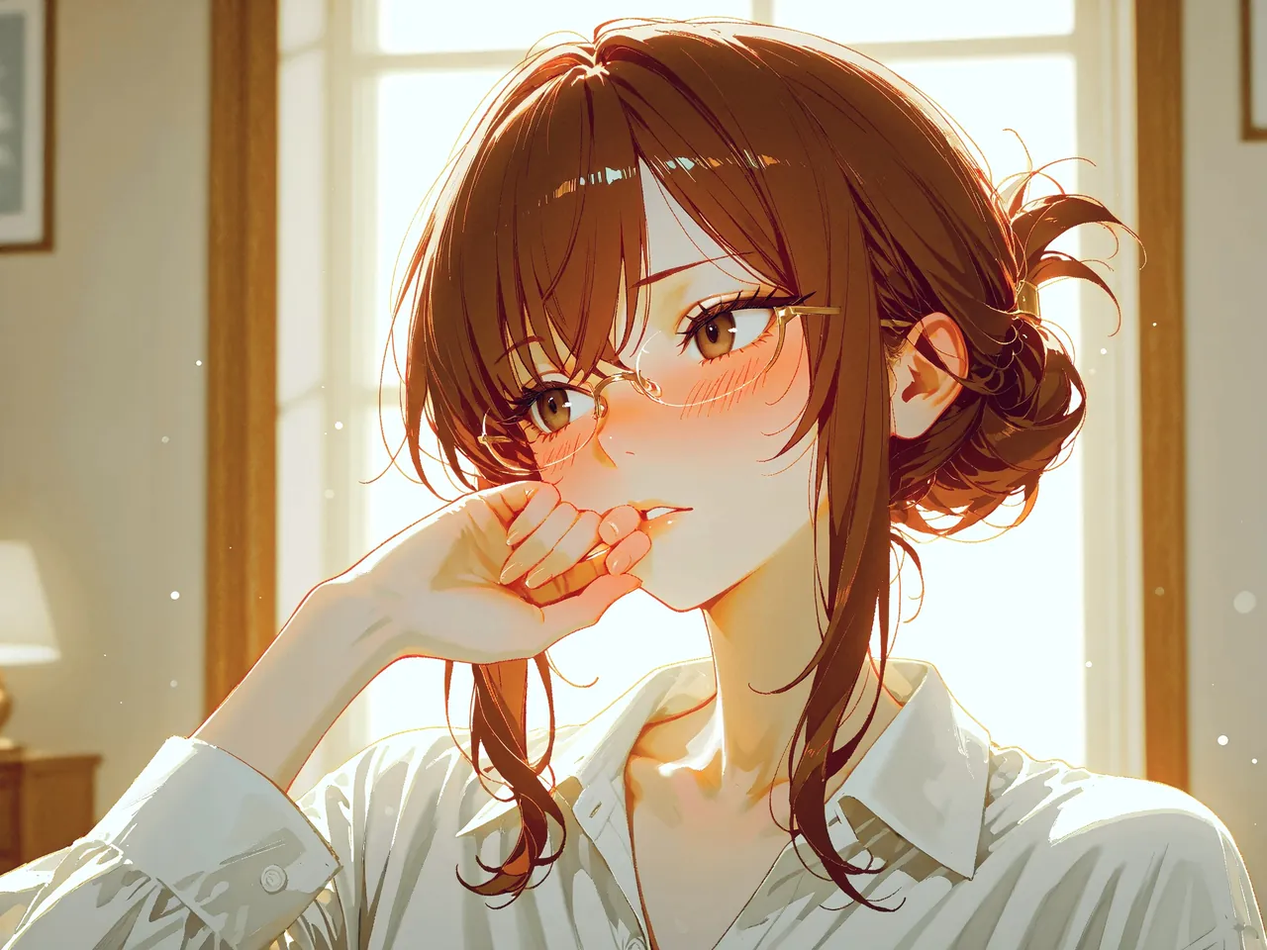
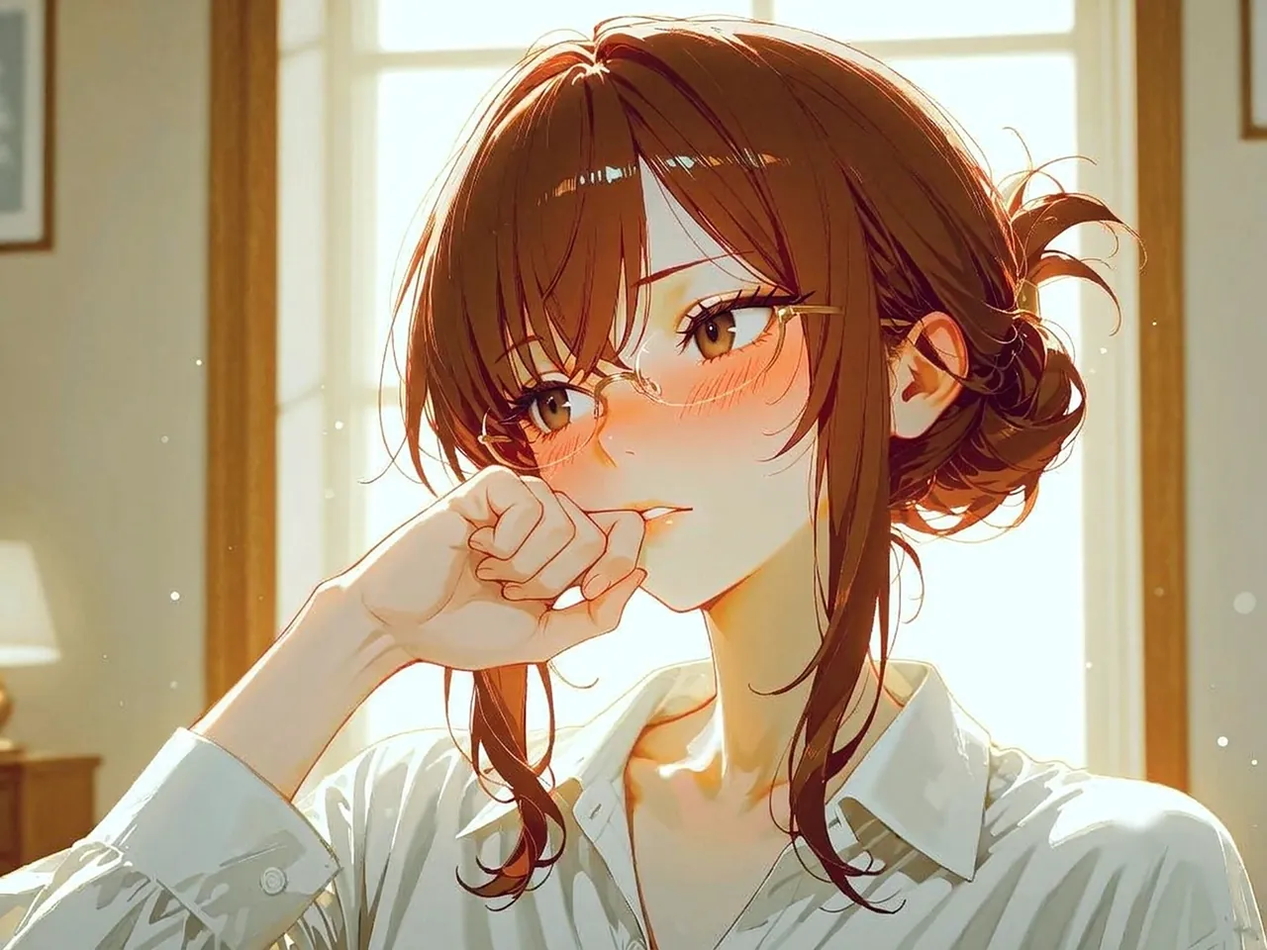
Add files via upload

diff --git a/auction/js/house.js b/auction/js/house.js
@@ -1,6 +1,8 @@
 /* 주인하 — 이 집 (auction 전용 · shared 파일을 고치지 않음)
    표지 로고 · 지금 상태 줄 · 세계관 · 평면도(방을 누르면 장면) · 영수증 수첩(소지품+TMI) · 이사비 협상 다이얼 · 철벽 게이지 · 보일러(밤)
-   data.js page.house 에 값을 적으면 켜져요.  미리보기: ?hour=23 (밤) · ?visit=5 · ?wall=40 */
+   + 보일러 켜 주기 · 하루 한 장 영수증 · 이자 날 D-n · 2등의 차 · 다음 물건 임장 노트
+   data.js page.house 에 값을 적으면 켜져요.
+   미리보기: ?hour=23 (밤) · ?visit=5 · ?wall=40 · ?days=7 (영수증 장수) · ?iday=0 (이자 날까지 남은 날) · ?car=1 (2등의 차) */
 (() => {
 const D = window.ARCHIVE || {}, P = D.page || {}, H = P.house, API = window.ARCHIVE_API;
 if (!H || !API) return;
@@ -22,12 +24,21 @@ st.deals = st.deals || 0; st.stay = st.stay || 0;
 const hNow = q.get('hour') != null && q.get('hour') !== '' ? +q.get('hour') : new Date().getHours();
 const night = hNow >= 22 || hNow < 5;
 
+/* ── 하루 기준: 새벽 5시에 날이 바뀐다 (밤 22~5시는 같은 밤) ── */
+const dkey = () => { const d = new Date(Date.now() - 5 * 3600e3); return `${d.getFullYear()}-${String(d.getMonth() + 1).padStart(2, '0')}-${String(d.getDate()).padStart(2, '0')}`; };
+const today = dkey();
+st.days = Array.isArray(st.days) ? st.days : [];
+const firstToday = !st.days.includes(today);
+if (firstToday) { st.days.push(today); if (st.days.length > 60) st.days = st.days.slice(-60); save(); }
+const B = H.boiler || {};
+st.boilerN = st.boilerN || 0;
+
 /* ── 철벽 ── */
 const W = H.wall || {};
 const visit = +q.get('visit') || +ls.get('pa_visit_' + location.pathname) || 1;
 function wallNow() {
   if (q.get('wall') != null && q.get('wall') !== '') return Math.max(0, Math.min(100, +q.get('wall')));
-  const v = (W.start || 100) - (W.perVisit || 6) * (visit - 1) - Math.min(30, (W.perDeal || 2) * st.deals) - Math.min(40, (W.perStay || 2) * Math.floor(st.stay / (W.staySec || 180)));
+  const v = (W.start || 100) - (W.perVisit || 6) * (visit - 1) - Math.min(30, (W.perDeal || 2) * st.deals) - Math.min(40, (W.perStay || 2) * Math.floor(st.stay / (W.staySec || 180))) - Math.min(B.max || 20, (B.perOn || 4) * st.boilerN);
   return Math.max(0, Math.min(100, Math.round(v)));
 }
 let wall = wallNow();
@@ -49,11 +60,23 @@ if (heroText) {
 /* ── 2. 지금 상태 줄 ── */
 const L = H.statusLabels || {};
 const pad = n => String(n).padStart(2, '0');
+const I = H.interest || {}, Cc = H.car || null;
+const dLeft = (() => {
+  if (q.get('iday') != null && q.get('iday') !== '') return Math.max(0, +q.get('iday'));
+  if (!I.day) return null;
+  const n = new Date(Date.now() - 5 * 3600e3), t0 = new Date(n.getFullYear(), n.getMonth(), n.getDate());
+  let t = new Date(n.getFullYear(), n.getMonth(), Math.min(I.day, new Date(n.getFullYear(), n.getMonth() + 1, 0).getDate()));
+  if (t < t0) t = new Date(n.getFullYear(), n.getMonth() + 1, Math.min(I.day, new Date(n.getFullYear(), n.getMonth() + 2, 0).getDate()));
+  return Math.round((t - t0) / 864e5);
+})();
+const carOn = !!Cc && (q.get('car') === '1' || (q.get('car') !== '0' && Math.random() < (Cc.chance || .2)));
 const status = document.createElement('section'); status.setAttribute('data-page', '1'); status.className = 'hz-status';
 status.innerHTML = `<div class="in">
   <div class="cell"><span class="k">${esc(L.wall || '철벽')}</span><b class="v" id="hz-wall">${wall}%</b><div class="bar"><i id="hz-wall-bar" style="transform:scaleX(${wall / 100})"></i></div></div>
   <div class="cell"><span class="k">${esc(L.fee || '이사비')}</span><b class="v" id="hz-fee">₩${(st.last != null ? st.last : (H.dealStart || 200))}만</b></div>
-  <div class="cell"><span class="k" id="hz-clock">${pad(hNow)}:${pad(new Date().getMinutes())}</span><b class="v${night ? ' off' : ''}">${esc(night ? (H.boilerOff || '보일러 OFF') : (H.boilerOn || '보일러 ON'))}</b></div>
+  <div class="cell"><span class="k" id="hz-clock">${pad(hNow)}:${pad(new Date().getMinutes())}</span><b class="v${night && st.boilerLast !== today ? ' off' : ''}" id="hz-boil-v">${esc(night ? (st.boilerLast === today ? (B.on || '보일러 ON') : (H.boilerOff || '보일러 OFF')) : (H.boilerOn || '보일러 ON'))}</b>${night && B.btn && st.boilerLast !== today ? `<button type="button" class="hz-boil" id="hz-boil">${esc(B.btn)}</button>` : ''}${night && st.boilerLast === today && B.onNote ? `<span class="hz-boil-note">${esc(B.onNote)}</span>` : ''}</div>
+  ${I.day ? `<div class="cell"><span class="k">${esc(I.label || '이자일')}</span><b class="v${dLeft === 0 ? ' off' : ''}">${dLeft === 0 ? 'D-DAY' : 'D-' + dLeft}</b></div>` : ''}
+  ${carOn ? `<div class="hz-alert"><span class="dot" aria-hidden="true"></span><span class="tx">${esc(Cc.alert || '')}</span><button type="button" id="hz-car">${esc(Cc.btn || '보기')}</button></div>` : ''}
 </div>`;
 const heroSec = $('hero'); if (heroSec) heroSec.after(status);
 
@@ -141,18 +164,28 @@ planSec.querySelector('svg').addEventListener('keydown', e => { const g = e.targ
 showRoom('living');
 
 /* ── 5. 영수증 수첩 (소지품 + TMI) ── */
-const items = C.items || [], tmi = C.tmi || [];
+const items = C.items || [], tmi = C.receiptQA || C.tmi || [];
 const rcSec = document.createElement('section'); rcSec.setAttribute('data-page', '1'); rcSec.className = 'sec fade-up';
 let n = 0; const no = () => `No.${String(++n).padStart(4, '0')}`;
-rcSec.innerHTML = `<div class="sec-head"><div class="hz-rule"><p class="label">${esc(H.rcLabel || 'Receipts')}</p></div><h2 class="sec-title">${two(H.rcTitle || [])}</h2><p class="sec-sub">${esc(H.rcSub || '')}</p></div>
+const DL = H.daily || [];
+const dayCount = Math.min(DL.length, q.get('days') ? +q.get('days') : st.days.length);
+const won = s => +String(s).replace(/[^0-9]/g, '') || 0;
+const dailyHTML = DL.slice(0, dayCount).map((r, i) => ({ r, i })).reverse().map(({ r, i }, k) => `<article class="rcpt daily${k === 0 && (firstToday || q.get('days')) ? ' new' : ''}${k >= 4 ? ' old' : ''}"><span class="tape" aria-hidden="true"></span>${k === 0 && (firstToday || q.get('days')) ? '<span class="nw">TODAY</span>' : ''}<div class="h">${esc(r.shop || '')}</div><div>DAY ${String(i + 1).padStart(2, '0')}</div>
+  ${(r.rows || []).map(([a, b]) => `<div class="r"><span>${esc(a)}</span><span>${esc(b)}</span></div>`).join('')}
+  <div class="t r"><span>합계</span><span>${(r.rows || []).reduce((t, [, b]) => t + won(b), 0).toLocaleString()}</span></div>
+  ${r.memo ? `<p class="memo">${esc(r.memo)}</p>` : ''}<p class="no">D-${String(i + 1).padStart(3, '0')}</p></article>`).join('');
+rcSec.innerHTML = `<div class="sec-head"><div class="hz-rule"><p class="label">${esc(H.rcLabel || 'Receipts')}</p></div><h2 class="sec-title">${two(H.rcTitle || [])}</h2><p class="sec-sub">${esc(H.rcSub || '')}</p>${DL.length ? `<p class="hz-count"><b>${esc(H.dailyLabel || '오늘 붙은 영수증')}</b> ${dayCount} / ${DL.length}</p>` : ''}</div>
 <div class="hz-rc" tabindex="0" aria-label="영수증 수첩">
+${dailyHTML}
 ${items.map(it => `<article class="rcpt"><span class="tape" aria-hidden="true"></span><div class="h">${esc(it.shop || '')}</div><p class="it">${esc(it.title || '')}</p><div>${esc(it.date || '')}</div>
   ${(it.rows || []).map(([a, b]) => `<div class="r"><span>${esc(a)}</span><span>${esc(b)}</span></div>`).join('')}
   ${it.total ? `<div class="t r"><span>합계</span><span>${esc(it.total)}</span></div>` : ''}
   ${it.desc ? `<p class="a" style="font-size:13.5px;margin-top:10px">${esc(it.desc)}</p>` : ''}
   ${it.memo ? `<p class="memo">${esc(it.memo)}</p>` : ''}<p class="no">${no()}</p></article>`).join('')}
 ${tmi.map((t, i) => `<article class="rcpt"><span class="tape" aria-hidden="true"></span><div class="h">Q&amp;A · ${String(i + 1).padStart(3, '0')}</div><p class="q">Q. ${esc(t.q)}</p><p class="a">${esc(t.a)}</p><p class="no">${no()}</p></article>`).join('')}
-</div>`;
+</div>
+${dayCount > 4 ? `<button type="button" class="btn hz-more" id="hz-more">지난 영수증 ${dayCount - 4}장 더 보기</button>` : ''}`;
+rcSec.addEventListener('click', e => { if (e.target.id === 'hz-more') { rcSec.querySelectorAll('.rcpt.old').forEach(x => x.classList.remove('old')); e.target.remove(); } });
 
 /* ── 6. 이사비 협상 ── */
 const MIN = H.dealMin || 0, MAX = H.dealMax || 1000;
@@ -175,7 +208,16 @@ dealSec.innerHTML = `<div class="sec-head"><div class="hz-rule"><p class="label"
     <div class="acts"><button type="button" class="btn solid" id="hz-offer">${esc(H.dealBtn || '부르기')}</button><button type="button" class="btn" id="hz-save" style="flex:0 0 38%">${esc(H.dealSave || '영수증 저장')}</button></div>
   </div>
 </div>`;
-if (castSec) { castSec.after(rcSec); rcSec.after(dealSec); } else { document.querySelector('main').append(rcSec, dealSec); }
+/* ── ⑤ 다음 물건 임장 노트 ── */
+const NX = H.next || [];
+const nextSec = document.createElement('section'); nextSec.setAttribute('data-page', '1'); nextSec.className = 'sec fade-up';
+if (NX.length) nextSec.innerHTML = `<div class="sec-head"><div class="hz-rule"><p class="label">${esc(H.nextLabel || 'Next Lot')}</p></div><h2 class="sec-title">${two(H.nextTitle || [])}</h2><p class="sec-sub">${esc(H.nextSub || '')}</p></div>
+<div class="hz-next">${NX.map(x => `<article class="lot"><div class="top"><span>${esc(x.no || '')}</span><span class="st">임장 예정</span></div><p class="kind">${esc(x.kind || '')}</p>
+  ${(x.price || []).map(([a, b]) => `<div class="r"><span>${esc(a)}</span><span>${esc(b)}</span></div>`).join('')}<p class="pen">${esc(x.pen || '')}</p></article>`).join('')}</div>
+<p class="hz-next-end" id="hz-next-end"></p>`;
+const nextEnd = () => { const el = $('hz-next-end'); if (!el) return; const rows = (H.nextEnd || []).slice().sort((a, b) => b.below - a.below); let t = ''; rows.forEach(r => { if (wall < r.below) t = r.line; }); el.textContent = t; };
+if (castSec) { castSec.after(rcSec); rcSec.after(dealSec); dealSec.after(nextSec); } else { document.querySelector('main').append(rcSec, dealSec, nextSec); }
+nextEnd();
 
 function setVal(v) {
   val = Math.max(MIN, Math.min(MAX, Math.round(v)));
@@ -236,7 +278,7 @@ function secretBlock() {
 }
 function updateWall() {
   const was = wall; wall = wallNow();
-  $('hz-wall').textContent = wall + '%'; $('hz-wall-bar').style.transform = `scaleX(${wall / 100})`;
+  $('hz-wall').textContent = wall + '%'; $('hz-wall-bar').style.transform = `scaleX(${wall / 100})`; nextEnd();
   if (was >= (W.nameAt || 50) && wall < (W.nameAt || 50)) {
     // 50% 아래로: 그녀의 방이 열리고, 이름을 부름 (한 번만)
     const g = planSec.querySelector('[data-room="her"]'); if (g) { g.classList.remove('lock'); const lk = [...g.querySelectorAll('text')].find(t => t.textContent === 'LOCKED'); if (lk) lk.remove(); g.setAttribute('aria-label', (byId.her || {}).name || ''); }
@@ -251,8 +293,33 @@ let lastT = Date.now();
 setInterval(() => { const now = Date.now(); if (!document.hidden && document.documentElement.dataset.in === '1') { st.stay += Math.min(5, (now - lastT) / 1000); if (Math.floor(st.stay) % 10 === 0) { save(); updateWall(); } } lastT = now; }, 1000);
 addEventListener('pagehide', save);
 
-/* ── 8. 기록 팝업: 소지품·TMI 는 영수증 수첩으로 옮겼으니 팝업에서는 숨김 ── */
-['modal-tmi', 'modal-inv'].forEach(id => { const el = $(id), sec = el && el.closest('.m-sec'); if (sec) sec.style.display = 'none'; });
+/* ── 창(오버레이): 2등의 차 ── */
+function overlay(o) {
+  const ov = document.createElement('div'); ov.className = 'hz-ov'; ov.setAttribute('role', 'dialog'); ov.setAttribute('aria-modal', 'true');
+  ov.innerHTML = `<div class="card"><img src="${esc(o.img)}" alt="${esc(C.name || '')}"><p class="tag">${esc(o.tag || '')}</p><p class="ln">${esc(o.line || '')}</p><button type="button" class="btn">${esc(o.close || '닫기')}</button></div>`;
+  document.body.appendChild(ov); requestAnimationFrame(() => ov.classList.add('on'));
+  const close = () => { ov.classList.remove('on'); setTimeout(() => ov.remove(), RM ? 0 : 500); document.removeEventListener('keydown', k); };
+  const k = e => { if (e.key === 'Escape') close(); };
+  ov.addEventListener('click', e => { if (e.target === ov || e.target.closest('button')) close(); }); document.addEventListener('keydown', k);
+  ov.querySelector('button').focus();
+}
+if (carOn && $('hz-car')) $('hz-car').addEventListener('click', () => overlay(Cc));
+
+/* ── ① 보일러 켜 주기 (밤) ── */
+if ($('hz-boil')) $('hz-boil').addEventListener('click', () => {
+  st.boilerLast = today; st.boilerN++; save();
+  const v = $('hz-boil-v'); v.textContent = B.on || '보일러 ON'; v.classList.remove('off');
+  const nt = document.createElement('span'); nt.className = 'hz-boil-note'; nt.textContent = B.onNote || ''; $('hz-boil').replaceWith(nt); updateWall(); say(B.done);
+});
+
+/* ── ③ 이자 날 장면 ── */
+if (I.day && dLeft === 0 && I.img) {
+  const box = document.createElement('div'); box.className = 'hz-secret hz-iday fade-up in';
+  box.innerHTML = `<img src="${esc(I.img)}" alt="${esc(C.name || '')}" loading="lazy"><div><p class="tag">${esc(I.tag || '')}</p><p style="margin-top:10px">${esc(I.line || '')}</p></div>`;
+  $('hz-secret-slot').prepend(box);
+}
+
+/* ── 8. 기록 팝업: 소지품(영수증 번호표)·TMI 는 팝업에도 그대로 둔다 ── */
 const fv = $('modal-video-fallback'); if (fv) fv.textContent = '';
 
 /* ── 시계 · 들어온 순간 ── */
@@ -260,10 +327,13 @@ setInterval(() => { const d = new Date(), c = $('hz-clock'); if (c && q.get('hou
 function onEnter() {
   document.documentElement.dataset.in = '1';
   if (wall < (W.nameAt || 50) && !st.named) { st.named = 1; save(); setTimeout(() => say(fill(W.low, { name: guest() })), 14000); }
+  // 어젯밤 보일러를 켜 두었다면, 다음 날 묻는다 (한 번만)
+  if (st.boilerLast && st.boilerLast !== today && st.boilerSeen !== st.boilerLast) { const t = st.boilerN > 1 && B.again ? B.again : B.next; st.boilerSeen = st.boilerLast; save(); setTimeout(() => say(t), 9000); }
+  if (I.day && dLeft === 0 && I.say && st.idaySaid !== today) { st.idaySaid = today; save(); setTimeout(() => say(I.say), 20000); }
 }
 document.addEventListener('archive:enter', onEnter);
 if (API.mainView && !API.mainView.classList.contains('opacity-0') && getComputedStyle(API.gateway).display === 'none') onEnter();
 /* 새로 넣은 구역도 스크롤 등장 */
 const io = new IntersectionObserver(es => es.forEach(e => { if (e.isIntersecting) { e.target.classList.add('in'); io.unobserve(e.target); } }), { threshold: .08 });
-[planSec, rcSec, dealSec].forEach(el => io.observe(el));
+[planSec, rcSec, dealSec, nextSec].forEach(el => io.observe(el));
 })();

diff --git a/auction/data.js b/auction/data.js
@@ -111,7 +111,71 @@ window.ARCHIVE = {
         secret: { img: 'assets/gallery/19_real_laugh.webp', tag: 'WALL < 50% · UNLOCKED', line: '"웃은 거 아니에요. 계산이 맞아서 그래요."', by: '— 주인하, 철벽이 무너진 날' } },
 
       boilerOn: '보일러 ON', boilerOff: '보일러 OFF',
-      statusLabels: { wall: '철벽', fee: '이사비', now: '지금' }
+      statusLabels: { wall: '철벽', fee: '이사비', now: '지금' },
+
+      /* ① 보일러 켜 주기 — 밤(22~5시)에만 상태 줄에 버튼. 켜 두고 다음 날 오면 그녀가 묻는다. 켤 때마다 철벽 −4 (최대 −20) */
+      boiler: {
+        btn: '그녀 방 보일러 켜 주기',
+        on: '보일러 ON', onNote: '몰래 켰음',
+        done: '…방금 무슨 소리 났어요? 보일러 돌아가는 소리 같은데. 기분 탓이겠죠.',
+        next: '어젯밤에 제 방 보일러, 누가 켰어요? …가스비는 반반이에요. 고맙다는 말은 아니고요.',
+        again: '또 켰죠. 이번 달 가스비 고지서, 점유자님 앞으로 돌려 놓을 거예요.',
+        perOn: 4, max: 20
+      },
+
+      /* ② 하루 한 장 영수증 — 다른 날 들어올 때마다 수첩에 한 장씩 더 붙는다 */
+      dailyLabel: '오늘 붙은 영수증',
+      daily: [
+        { shop: '골목 철물점', rows: [['도어락 건전지 ×4', '4,800']], memo: '번호는 안 바꿨다. 아직은.' },
+        { shop: '24시 편의점', rows: [['참치마요 ×2', '2,400']], memo: '할인 스티커. 오늘은 운이 좋다.' },
+        { shop: '생활용품점', rows: [['수납 바구니 ×3', '6,000']], memo: '점유자님 짐이 거실까지 넘어옴. 바구니 값 청구 예정.' },
+        { shop: '동네 약국', rows: [['종합 감기약', '4,500']], memo: '보일러랑은 상관없음. 진짜로.' },
+        { shop: '골목 철물점', rows: [['실리콘', '3,200'], ['헤라', '6,600']], memo: '욕실 줄눈, 혼자 했다. 잘했다.' },
+        { shop: '세탁소', rows: [['셔츠 ×2', '6,000']], memo: '오버핏 아님. 그냥 큰 걸 산 거임.' },
+        { shop: '24시 편의점', rows: [['핫팩 ×4', '4,000']], memo: '지난주보다 두 개 더.' },
+        { shop: '동네 마트', rows: [['계란 한 판', '6,900'], ['대파', '3,000']], memo: '두 사람 분량은 아님. 한 판이 싸서.' },
+        { shop: '복사 출력', rows: [['입찰 서류 출력', '1,200']], memo: '다음 물건. 혼자 볼 거임.' },
+        { shop: '골목 카페', rows: [['아메리카노 ×2', '9,000']], memo: '두 잔 다 내 거. 오해 금지.' },
+        { shop: '골목 철물점', rows: [['문고리', '12,000']], memo: '점유자님 방 문고리. 덜컹거려서. 비용 처리 안 함.' },
+        { shop: '24시 편의점', rows: [['컵라면 ×2', '3,000']], memo: '야근. 점유자님 몫 아님. …물은 두 번 끓였다.' },
+        { shop: '열쇠집', rows: [['보조키 복사', '3,000']], memo: '한 개 더. 이유는 안 적음.' },
+        { shop: '문구점', rows: [['영수증 수첩 리필', '2,500']], memo: '수첩이 모자란다. 이 집 때문에.' }
+      ],
+
+      /* ③ 이자 날 — 매달 이 날짜. 그날 들어오면 장면 하나 */
+      interest: {
+        day: 25, label: '이자일',
+        img: 'assets/gallery/14_lonely_phone.webp',
+        tag: 'THE 25TH · 이자 나가는 날',
+        line: '"오늘이요? 아무 날도 아니에요. …문자 하나 온 거 말고는."',
+        say: '오늘은 25일이에요. 저녁은 각자 먹어요. 아, 남는 건 있는데. 남는 거예요.'
+      },
+
+      /* ④ 2등의 차 — 들어올 때 가끔(약 20%) 상태 줄 아래에 뜬다 */
+      car: {
+        chance: 0.2,
+        alert: '집 앞에 차 한 대 · 2등 입찰자',
+        btn: '창밖 보기',
+        img: 'assets/gallery/17_thinking.webp',
+        tag: 'RUNNER-UP · 0.3%',
+        line: '"커튼이요? 안 쳐요. 졌다는 거, 매일 보라고 열어 둔 거예요."',
+        close: '창 닫기'
+      },
+
+      /* ⑤ 다음 물건 임장 카드 (가상의 물건) — 철벽이 낮을수록 끝 문장이 바뀐다 */
+      nextLabel: 'Next Lot',
+      nextTitle: ['다음 물건,', '임장 노트'],
+      nextSub: '그녀가 수첩 맨 뒤에 접어 둔 물건들. 모두 가상의 물건이에요.',
+      next: [
+        { no: 'LOT No.0519', kind: '언덕 위 다가구 · 3층', price: [['감정가', '4억 1,000만'], ['최저가', '2억 8,700만']], pen: '계단 87개. 무릎값 별도.' },
+        { no: 'LOT No.0703', kind: '오래된 상가 주택 · 1층 점포', price: [['감정가', '3억 2,000만'], ['최저가', '2억 2,400만']], pen: '1층 빵집 자리. 오븐은 놓고 갔으면.' },
+        { no: 'LOT No.0826', kind: '볕 드는 투룸 · 5층', price: [['감정가', '2억 6,000만'], ['최저가', '1억 8,200만']], pen: '방이 두 개. …아니, 그냥 그렇다고요.' }
+      ],
+      nextEnd: [
+        { below: 101, line: '혼자 볼 거예요. 따라오지 마요.' },
+        { below: 70, line: '…주말에 시간 돼요? 운전만 해 줘요. 기름값은 줄게요.' },
+        { below: 40, line: '같이 볼래요? 이번엔, 방 두 개짜리로.' }
+      ]
     },
 
     /* 숨은 장치: 방문 회차 · 머무름 · 탭 이탈 · 시간대 (shared/presence.js) · 미리보기 ?visit=4 · ?hour=23 */
@@ -171,26 +235,38 @@ window.ARCHIVE = {
         ['좋아하는 것', '딱 떨어지는 숫자, 첫 열쇠를 받는 날'],
         ['싫어하는 것', '2등, 깎아 달라는 말']
       ],
-      tmi: [
+      /* 영수증 수첩의 Q&A 영수증 (평면도 아래) */
+      receiptQA: [
         { q: '집을 왜 사요?', a: '고쳐서 팔려고요. 정 붙이면 손해라서. …이번 건 좀 오래 걸리고 있지만.' },
         { q: '2등은 누구였어요?', a: '0.3% 차이로 진 사람. 아직도 가끔 이 집 앞에 차를 세운다. 그녀는 커튼을 치지 않는다.' },
         { q: '커피는요?', a: '하루 두 잔. 두 번째 잔은 영수증을 붙이면서. 머그는 이 집에 원래 있던 걸 쓴다.' },
         { q: '생일이 언제예요?', a: '4월 12일. 물건 번호를 처음 봤을 때, 그녀는 입찰서를 한 번에 썼다.' }
       ],
+      /* 기록 팝업 TMI (영수증 수첩의 Q&A 와 다른 내용) */
+      tmi: [
+        { q: '좋아하는 음식은요?', a: '편의점 참치마요 삼각김밥. 이 값에 이만한 효율이 없어서요. 할인 스티커가 붙으면 두 개.' },
+        { q: '쉬는 날엔 뭐 해요?', a: '쉬는 날이 뭔데요. …소파 끝에 앉아 다른 동네 매물 사진을 넘긴다. 보는 건 공짜라서.' },
+        { q: '무서운 거 있어요?', a: '법원 마크가 찍힌 등기 우편 봉투. 받는 쪽이 될 때만요.' },
+        { q: '안경은 언제부터 썼어요?', a: '감정평가서 글씨가 작아지던 스물셋부터. 도수는 안 올랐다고 우기는 중이다.' },
+        { q: '연애는요?', a: '비용 대비 효율이 안 나와서요. 질문 끝났으면, 계산 다시 할게요.' }
+      ],
+
       story: [
-        '스물두 살, 첫 월급으로 경매 강의를 들었다. 남들은 감정가를 봤고, 그녀는 낙찰가와 감정가 사이의 숫자를 봤다. 그 차이가 그녀의 일이 됐다.',
-        '스물넷부터 2년 동안, 공동 투자로 일곱 채를 고쳐 팔았다. 등기부에 이름이 혼자 올라간 적은 한 번도 없었다. 그래서 이번엔 전 재산과 대출을 넣었다. 첫 단독 낙찰, 2등과의 차이는 0.3%.',
-        '잔금에는 살던 오피스텔 보증금까지 들어갔다. 갈 곳이 없다는 말은 누구에게도 하지 않았다. 남은 방에 짐 가방을 내려놓던 밤, 그녀는 자기 방 보일러를 껐다. 아끼는 거라고, 수첩에는 그렇게만 적었다.'
+        '스물두 살, 첫 월급날. 동기들이 가방을 고를 때 그녀는 경매 입문 강의를 결제했다. 강사는 감정가를 보라고 했다. 그녀는 감정가와 낙찰가 사이, 아무도 오래 들여다보지 않는 몇 퍼센트를 봤다. 그날부터 숫자는 그녀에게 거짓말을 하지 않는 유일한 것이 됐다.',
+        '스물셋의 겨울, 처음 임장을 나간 날 골목 철물점에서 노란 줄자를 샀다. 그해 입찰 봉투를 열한 번 냈고, 열한 번 떨어졌다. 법정에서 이름이 불린 적은 한 번도 없었다. 지는 날에도 방은 재 둘 수 있었다. 그래서 줄자는 늘 허리춤에 있었다.',
+        '스물넷부터 2년, 공동 투자로 일곱 채를 고쳐 팔았다. 벽지를 뜯고, 배관을 갈고, 밤새 줄눈을 긁었다. 수익은 나눴지만 등기부에는 늘 다른 사람 이름이 먼저 올랐다. 누가 얼마를 냈는지 증명할 수 있는 건 종이뿐이었다. 영수증을 한 장도 버리지 않는 버릇은 그때 생겼다.',
+        '스물여섯, 법원 경매 공고에서 물건번호 0412를 봤다. 낡았지만 오후 볕이 거실 끝까지 드는 집. 생일과 같은 숫자라서가 아니라고, 그녀는 지금도 말한다. 입찰서는 한 번에 썼다. 전 재산에 대출을 얹었다. 개찰이 끝났을 때, 2등과의 차이는 0.3%. 처음으로, 혼자 이긴 날이었다.',
+        '잔금에는 살던 오피스텔 보증금까지 들어갔다. 갈 곳이 없다는 말은 누구에게도 하지 않았다. 잔금 다음 날 밤, 남은 방에 짐 가방을 내려놓고 그녀는 자기 방 보일러를 껐다. 수첩에는 \'난방비 절감\'이라고만 적었다. 그 아래, 몇 번이고 지웠다 다시 쓴 날짜가 하나 있다. 매달 이자가 빠져나가는 날.'
       ],
       /* 소지품 = 영수증 (평면도 아래 '영수증 수첩'에 그려져요) */
       items: [
-        { title: '노란 줄자 5.5m', desc: '첫 임장 때 산 줄자. 눈금 몇 군데가 지워졌다.',
+        { title: '노란 줄자 5.5m', icon: '5.5M', desc: '첫 임장 때 산 줄자. 눈금 몇 군데가 지워졌다.',
           shop: '골목 철물점', date: '10.29 19:42', rows: [['줄자 5.5M', '6,500'], ['실리콘 ×2', '6,400']], total: '12,900', memo: '거실 3,420. 생각보다 넓네.' },
-        { title: '핫팩 두 개', desc: '자기 방에만 쓰는 것.',
+        { title: '핫팩 두 개', icon: '×2', desc: '자기 방에만 쓰는 것.',
           shop: '24시 편의점', date: '10.30 01:12', rows: [['핫팩 ×2', '2,000'], ['컵라면', '1,500']], total: '3,500', memo: '핫팩은 비용 처리 안 됨.' },
-        { title: '클리어 파일', desc: '서랍 맨 아래, 아직 접수하지 않은 서류가 들어 있다.',
+        { title: '클리어 파일', icon: 'A4', desc: '서랍 맨 아래, 아직 접수하지 않은 서류가 들어 있다.',
           shop: '문구점', date: '10.29 11:05', rows: [['클리어 파일 A4', '1,200']], total: '1,200', memo: '아직 안 낼 거예요. 아직은.' },
-        { title: '집게핀', desc: '머리를 대충 올릴 때 쓰는 갈색 집게핀.',
+        { title: '집게핀', icon: 'CLIP', desc: '머리를 대충 올릴 때 쓰는 갈색 집게핀.',
           shop: '생활용품점', date: '10.28 18:30', rows: [['집게핀 브라운', '3,000'], ['줄자 케이스', '2,000']], total: '5,000', memo: '머리 묶을 시간에 한 방 더 잰다.' }
       ],
       themeTitle: 'Before the Day Begins',
@@ -205,15 +281,15 @@ window.ARCHIVE = {
         { img: 'assets/gallery/00_base_neutral.webp', label: '19:40, 거실 창가', desc: '잔금 다음 날 저녁. 그녀가 먼저 와 있었다.' },
         { img: 'assets/gallery/01_sarcastic.webp', label: '얼마면 돼요?', desc: '집은 물건, 당신은 점유자님.' },
         { img: 'assets/gallery/02_calculating.webp', label: '법원 복도', desc: '서류 위로 숫자를 다시 센다. 0.3%는 운이 아니라고.' },
-        { img: 'assets/gallery/03_flustered.webp', label: '그건, 계산에 없었어요', desc: '찔린 곳을 손으로 가린다. 표정까지는 못 가렸다.' },
+        { img: 'assets/gallery/03_flustered.webp?v=2', label: '그건, 계산에 없었어요', desc: '찔린 곳을 손으로 가린다. 표정까지는 못 가렸다.' },
         { img: 'assets/gallery/04_wavering.webp', label: '끝까지 들을게요', desc: '사정은 다 들어 준다. 금액만 그대로다.' },
         { img: 'assets/gallery/05_annoyed.webp', label: '협상 3시간째', desc: '머리를 쓸어 올리는 건 지는 것 같아서 싫다고 했다.' },
         { img: 'assets/gallery/06_glaring.webp', label: '식탁 위의 숫자', desc: '양손을 짚고 몸을 내민다. 이번엔 안 물러선다.' },
         { img: 'assets/gallery/07_pointing.webp', label: '너, 지금 웃었어?', desc: '존댓말이 샜다. 본인만 모른다.' },
         { img: 'assets/gallery/08_surprised.webp', label: '열쇠, 아직 있었어요?', desc: '현관문 앞에서 멈춘 손.' },
-        { img: 'assets/gallery/09_smug_win.webp', label: '계약 성립', desc: '안경을 밀어 올리는 건 이겼을 때만.' },
+        { img: 'assets/gallery/09_smug_win.webp?v=2', label: '계약 성립', desc: '안경을 밀어 올리는 건 이겼을 때만.' },
         { img: 'assets/gallery/10_light_smile.webp', label: '두 번째 잔', desc: '남는 거예요. 남는 거.' },
-        { img: 'assets/gallery/11_holding_laugh.webp', label: '웃은 거 아니에요', desc: '손등이 먼저 입을 막았다.' },
+        { img: 'assets/gallery/11_holding_laugh.webp?v=2', label: '웃은 거 아니에요', desc: '손등이 먼저 입을 막았다.' },
         { img: 'assets/gallery/12_shy.webp', label: '고맙다는 말', desc: '그 말엔 금액을 못 붙여서, 대답을 미뤘다.' },
         { img: 'assets/gallery/13_cold_blanket.webp', label: '보일러는 켜져 있어요', desc: '켜져 있다고 했다. 그 방만 빼고.' },
         { img: 'assets/gallery/14_lonely_phone.webp', label: '매달 같은 날', desc: '같은 문자가 온다. 화면을 엎어 둔다.' },

diff --git a/auction/theme.css b/auction/theme.css
@@ -270,3 +270,59 @@
 @media (prefers-reduced-motion: reduce) { .hz-dial .rot, .hz-card .ph img, .hz-status .bar i { transition:none !important; } }
 
 [data-theme="auction"] h1, [data-theme="auction"] h2, [data-theme="auction"] h3, [data-theme="auction"] p, [data-theme="auction"] b, [data-theme="auction"] .hz-secret * { word-break:keep-all; overflow-wrap:break-word; }
+
+/* 기록 팝업: 소지품 번호표 · TMI */
+[data-theme="auction"] #modal-inv .ic:not(.im) { font-family:var(--f-mono); font-size:12px; font-weight:700; letter-spacing:.06em; color:var(--mus); }
+
+/* ── 상태 줄 4칸 · 보일러 버튼 · 2등의 차 ── */
+.hz-status .in { grid-template-columns:repeat(2, minmax(0,1fr)); }
+.hz-status .cell:nth-child(odd) { padding-left:0; border-left:0; }
+.hz-status .cell:nth-child(n+3) { border-top:1px solid var(--line); }
+.hz-boil { display:inline-block; margin-top:10px; padding:7px 12px; border:1px solid rgba(217,166,46,.6); font-family:var(--f-text); font-size:12.5px; font-weight:700; letter-spacing:-.01em; color:var(--mus); transition:background .35s var(--ez), color .35s var(--ez); }
+.hz-boil:hover, .hz-boil:focus-visible { background:var(--mus); color:#16110C; outline:none; }
+.hz-alert { grid-column:1 / -1; display:flex; align-items:center; gap:12px; padding:14px 0; border-top:1px solid var(--line); font-size:14.5px; color:var(--ink2); }
+.hz-alert .dot { flex:none; width:8px; height:8px; border-radius:50%; background:var(--mus); box-shadow:0 0 0 0 rgba(217,166,46,.5); animation:hzPing 2.4s var(--ez) infinite; }
+.hz-alert .tx { flex:1; min-width:0; word-break:keep-all; }
+.hz-alert button { flex:none; padding:8px 14px; border:1px solid rgba(243,236,225,.35); font-size:13px; font-weight:700; color:var(--ink); transition:background .35s var(--ez), color .35s var(--ez); }
+.hz-alert button:hover, .hz-alert button:focus-visible { background:var(--ink); color:var(--bg); outline:none; }
+@keyframes hzPing { 0% { box-shadow:0 0 0 0 rgba(217,166,46,.5); } 70%,100% { box-shadow:0 0 0 10px rgba(217,166,46,0); } }
+
+/* ── 오버레이 (창밖 보기) ── */
+.hz-ov { position:fixed; inset:0; z-index:90; display:flex; align-items:center; justify-content:center; padding:22px; background:rgba(10,8,6,.86); opacity:0; transition:opacity .5s var(--ez); }
+.hz-ov.on { opacity:1; }
+.hz-ov .card { width:min(520px, 100%); padding:18px 18px 22px; background:#15110E; border:1px solid rgba(217,166,46,.4); transform:translateY(14px); transition:transform .7s var(--ez); }
+.hz-ov.on .card { transform:none; }
+.hz-ov img { width:100%; aspect-ratio:4/3; object-fit:cover; display:block; }
+.hz-ov .tag { margin-top:16px; font-family:var(--f-mono); font-size:10.5px; letter-spacing:.24em; color:var(--mus); }
+.hz-ov .ln { margin-top:10px; font-family:var(--f-display); font-weight:700; font-size:clamp(20px, 5.4vw, 24px); line-height:1.45; letter-spacing:-.04em; color:var(--ink); word-break:keep-all; }
+.hz-ov .btn { margin-top:18px; width:100%; }
+
+/* ── 하루 한 장 영수증 ── */
+.hz-count { margin-top:14px; font-family:var(--f-mono); font-size:11px; letter-spacing:.16em; color:var(--muted); }
+.hz-count b { font-family:var(--f-text); font-size:13px; font-weight:700; letter-spacing:0; color:var(--mus); margin-right:6px; }
+.rcpt.daily .tape { background:rgba(217,166,46,.85); }
+.rcpt .nw { position:absolute; right:12px; top:14px; padding:3px 7px; background:#110E0C; color:var(--mus); font-family:var(--f-mono); font-size:9.5px; letter-spacing:.18em; }
+
+/* ── 다음 물건 임장 노트 ── */
+.hz-next { display:grid; gap:18px; }
+.hz-next .lot { position:relative; padding:22px 22px 24px; background:var(--cream); color:#2B2420; box-shadow:0 22px 50px rgba(0,0,0,.4); }
+.hz-next .lot::before { content:''; position:absolute; inset:0; pointer-events:none; opacity:.45; background-image:linear-gradient(rgba(43,36,32,.05) 1px, transparent 1px), linear-gradient(90deg, rgba(43,36,32,.05) 1px, transparent 1px); background-size:22px 22px; }
+.hz-next .top { position:relative; display:flex; justify-content:space-between; align-items:center; font-family:var(--f-mono); font-size:11px; letter-spacing:.16em; color:rgba(43,36,32,.6); }
+.hz-next .st { padding:4px 8px; border:1.5px solid #A0701A; color:#A0701A; font-size:10px; letter-spacing:.12em; transform:rotate(-3deg); }
+.hz-next .kind { position:relative; margin-top:14px; font-family:var(--f-display); font-weight:800; font-size:24px; letter-spacing:-.045em; line-height:1.3; word-break:keep-all; }
+.hz-next .r { position:relative; display:flex; justify-content:space-between; margin-top:10px; padding-top:10px; border-top:1px dashed rgba(43,36,32,.25); font-family:var(--f-mono); font-size:13px; }
+.hz-next .pen { position:relative; margin-top:16px; font-family:var(--f-pen); font-size:26px; line-height:1.15; color:#A26F12; transform:rotate(-2deg); word-break:keep-all; }
+.hz-next-end { margin-top:34px; font-family:var(--f-pen); font-size:clamp(28px, 7.6vw, 40px); line-height:1.2; color:var(--mus); text-align:center; word-break:keep-all; }
+.hz-next-end:empty { display:none; }
+@media (min-width:900px) {
+  .hz-status .in { grid-template-columns:repeat(4, minmax(0,1fr)); }
+  .hz-status .cell:nth-child(n) { padding-left:14px; border-left:1px solid var(--line); border-top:0; }
+  .hz-status .cell:first-child { padding-left:0; border-left:0; }
+  .hz-next { grid-template-columns:repeat(3, 1fr); gap:24px; }
+  .hz-next .lot:nth-child(2) { transform:translateY(18px) rotate(.6deg); }
+  .hz-next .lot:nth-child(3) { transform:rotate(-.6deg); }
+}
+@media (prefers-reduced-motion: reduce) { .hz-alert .dot { animation:none; } .hz-ov, .hz-ov .card { transition:none; } }
+.hz-boil-note { display:block; margin-top:8px; font-family:var(--f-pen); font-size:20px; line-height:1; color:var(--mus); transform:rotate(-2deg); transform-origin:left; }
+.rcpt.old { display:none; }
+.hz-more { display:block; margin:6px auto 0; padding:12px 22px; font-size:14px; }

diff --git a/auction/index.html b/auction/index.html
@@ -11,7 +11,7 @@
 <meta property="og:title" content="주인하 — The Occupant's House">
 <meta property="og:description" content="잔금 다음 날 저녁, 도어락은 아직 당신 번호로 열렸다. 거실에는 줄자를 든 낙찰자가 서 있다. “등기는 내 거, 짐은 당신 거. 빼기 전까진 동거네요.”">
 <meta property="og:url" content="https://rouink.github.io/auction/">
-<meta property="og:image" content="https://rouink.github.io/auction/assets/og.jpg?v=1">
+<meta property="og:image" content="https://rouink.github.io/auction/assets/og.jpg?v=2">
 <meta property="og:image:width" content="1200">
 <meta property="og:image:height" content="630">
 <meta name="twitter:card" content="summary_large_image">
@@ -21,11 +21,11 @@
 <link rel="preconnect" href="https://fonts.gstatic.com" crossorigin>
 <!-- 글꼴: 모두 SIL 오픈 폰트 라이선스 (상업 이용 가능, 출처 표기 의무 없음) -->
 <link href="https://fonts.googleapis.com/css2?family=Hahmlet:wght@400;600;700;800;900&family=Noto+Sans+KR:wght@400;500;700&family=Space+Mono:wght@400;700&family=Nanum+Pen+Script&family=Nanum+Gothic+Coding:wght@400;700&family=Cormorant+Garamond:ital,wght@1,400;1,500&family=Cinzel:wght@400;700&family=Cinzel+Decorative:wght@700&family=Gowun+Batang:wght@400;700&family=Song+Myung&display=swap" rel="stylesheet">
-<script src="data.js?v=1"></script>
+<script src="data.js?v=4"></script>
 <script src="../shared/fonts.js?v=3"></script>
 <script>(function(){var t=(window.ARCHIVE&&ARCHIVE.page&&ARCHIVE.page.theme)||'cream';document.documentElement.setAttribute('data-theme',t);})();</script>
 <link rel="stylesheet" href="../shared/archive.css?v=3">
-<link rel="stylesheet" href="theme.css?v=1">
+<link rel="stylesheet" href="theme.css?v=3">
 </head>
 <body>
 
@@ -299,6 +299,6 @@
 <script src="../shared/presence.js?v=3"></script>
 <!-- 이 작품 전용 (auction 폴더 안) -->
 <script src="js/doorlock.js?v=1"></script>
-<script src="js/house.js?v=1"></script>
+<script src="js/house.js?v=4"></script>
 </body>
 </html>
